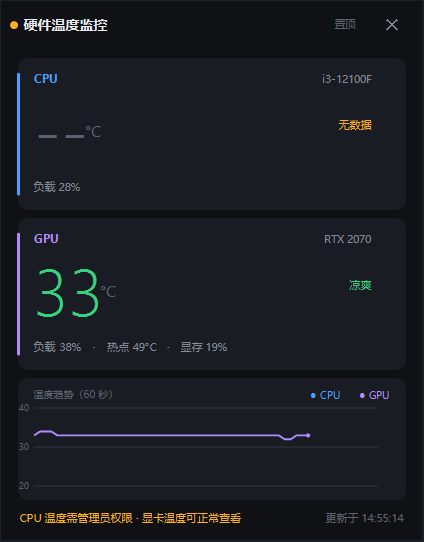
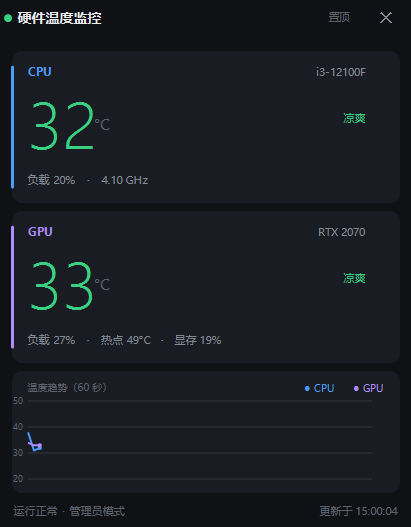
docs: 换成管理员模式的界面截图
原图是普通权限截图，CPU 显示 --，容易让人以为程序坏了。
新图为管理员模式，CPU 32°C / GPU 33°C 两栏都有数据。

diff --git a/README.md b/README.md
@@ -4,8 +4,7 @@
 
 ![截图](docs/screenshot.png)
 
-> 上图是**普通权限**下的样子：CPU 温度需要管理员权限，显卡温度不受影响。
-> 点 UAC 的「是」启动后，CPU 卡片会显示实际温度，趋势图也会多出一条蓝色曲线。
+> 管理员模式下的实际运行画面（i3-12100F + RTX 2070）。
 
 ## 为什么写它
 
